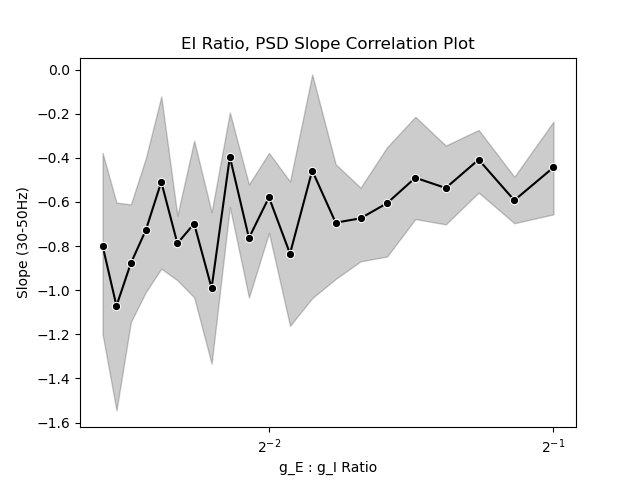
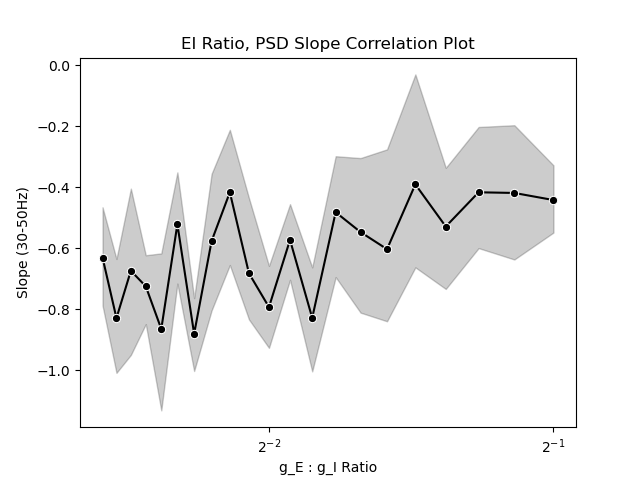
Change compute_spectrum parameters
For the neurodsp function to compute the PSD compute_spectrum, the parameter nperseg is changed from fs*2 to fs, and noverlap from the default value to fs/2

diff --git a/code/sim_field/lfp_sims.py b/code/sim_field/lfp_sims.py
@@ -41,13 +41,13 @@ def main():
 
     # PSD
     # PSD Excitatory
-    freq_e, psd_e = compute_spectrum(LFP_E, fs, method='welch', avg_type='median', nperseg=fs*2)
+    freq_e, psd_e = compute_spectrum(LFP_E, fs, method='welch', avg_type='median', nperseg=fs, noverlap=int(fs/2))
 
     # PSD Inhibitory
-    freq_i, psd_i = compute_spectrum(LFP_I, fs, method='welch', avg_type='median', nperseg=fs*2)
+    freq_i, psd_i = compute_spectrum(LFP_I, fs, method='welch', avg_type='median', nperseg=fs, noverlap=int(fs/2))
 
     # PSD LFP
-    freq_lfp, psd_lfp = compute_spectrum(LFP, fs, method='welch', avg_type='median', nperseg=fs*2)
+    freq_lfp, psd_lfp = compute_spectrum(LFP, fs, method='welch', avg_type='median', nperseg=fs, noverlap=int(fs/2))
 
     # Plot the power spectra
     plot_power_spectra([freq_lfp[:200], freq_e[:200], freq_i[:200]],
@@ -94,9 +94,9 @@ def main():
     LFP_E, LFP_I, _ = sim_field(6) # EI ratio = 1 : 6
     LFP6 = LFP_E + LFP_I
     # PSD Excitatory
-    freq_2, psd_2 = compute_spectrum(LFP2, fs, method='welch', avg_type='median', nperseg=fs*2)
+    freq_2, psd_2 = compute_spectrum(LFP2, fs, method='welch', avg_type='median', nperseg=fs, noverlap=int(fs/2))
     # PSD Inhibitory
-    freq_6, psd_6 = compute_spectrum(LFP6, fs, method='welch', avg_type='median', nperseg=fs*2)
+    freq_6, psd_6 = compute_spectrum(LFP6, fs, method='welch', avg_type='median', nperseg=fs, noverlap=int(fs/2))
     # Plot the power spectra
     plot_power_spectra([freq_2[:1000], freq_6[:1000]],
                     [psd_2[:1000], psd_6[:1000]],

diff --git a/code/sim_field/funcs.py b/code/sim_field/funcs.py
@@ -85,13 +85,13 @@ def batchsim_PSDs (EI_ratios= np.arange(2, 6.01, 0.2), num_trs = 5, t = 2 * 60, 
         GABA_tau = np.array([0.5, 10.])/1000.  GABA_A Conductance Rise, Decay Time in Seconds
     """
     fs = int(1/dt) # sampling rate
-    PSDs = np.zeros([1001, len(EI_ratios), num_trs])
+    PSDs = np.zeros([int(fs/2 + 1), len(EI_ratios), num_trs])
     for i in range(len(EI_ratios)):
         for tr in range(num_trs):
             LFP_E, LFP_I, _ = sim_field(EI_ratios[i], t = t, FR_E = FR_E, FR_I = FR_I, N_E = N_E, N_I = N_I, tk = tk,
                                 AMPA_tau = AMPA_tau, GABA_tau = GABA_tau, Vr = Vr, Ee = Ee, Ei = Ei, dt=dt)
             LFP = LFP_E + LFP_I
-            freq_lfp, psd_lfp = compute_spectrum(LFP, fs, method='welch', avg_type='median', nperseg=fs*2)
+            freq_lfp, psd_lfp = compute_spectrum(LFP, fs, method='welch', avg_type='median', nperseg=fs, noverlap=int(fs/2))
             PSDs[:,i,tr] = psd_lfp
     return PSDs, freq_lfp
 
